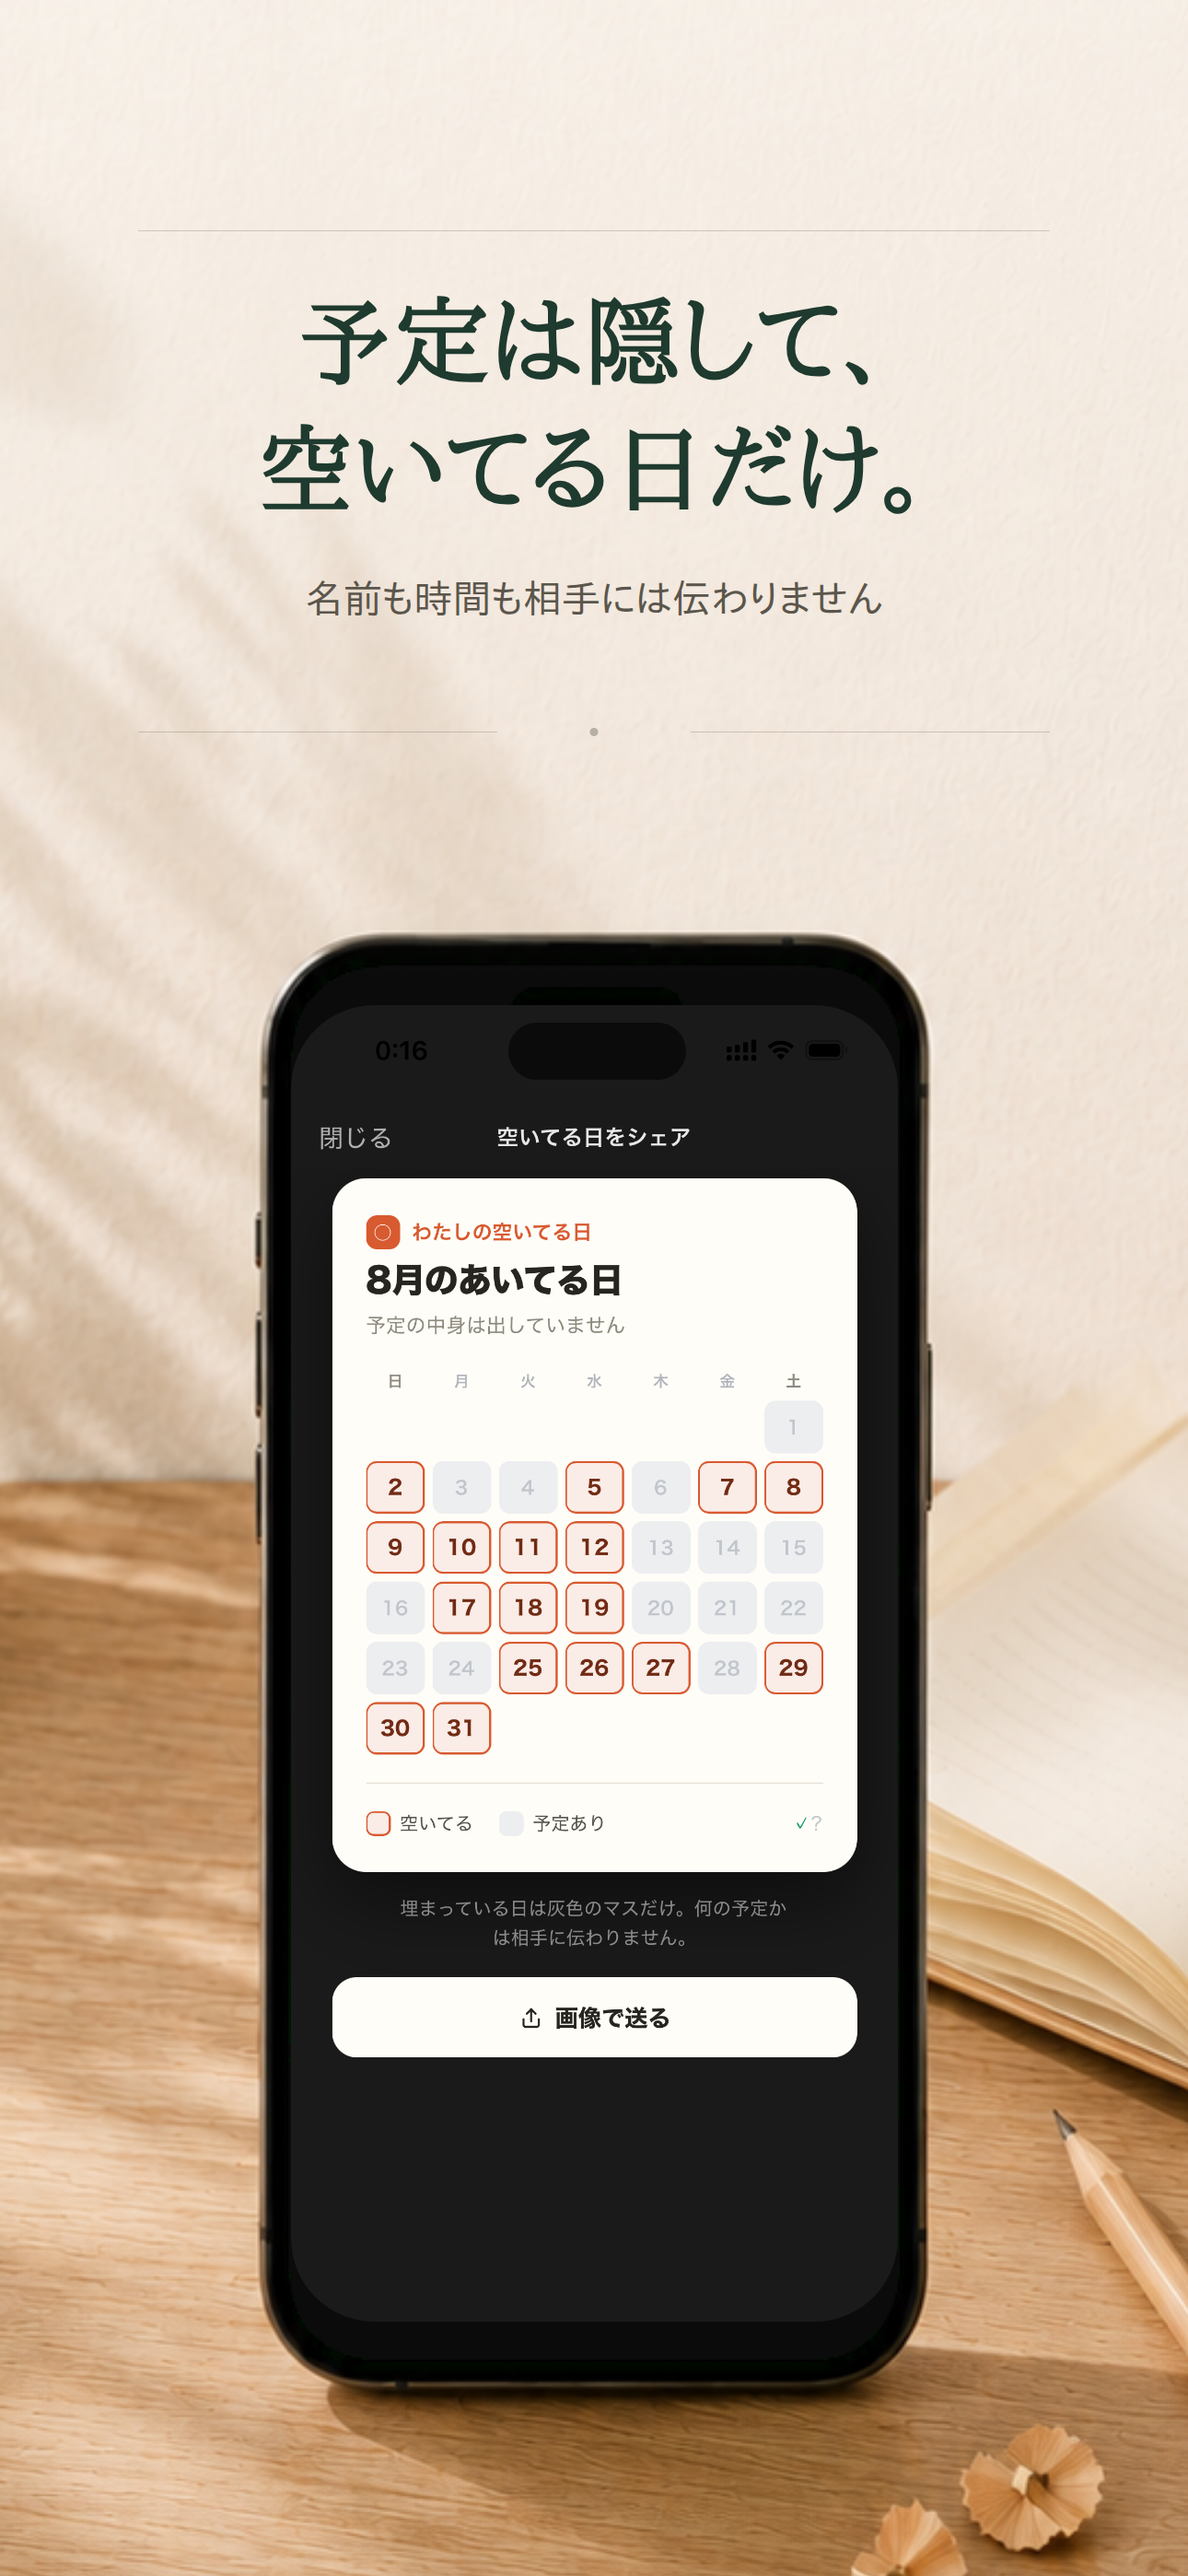
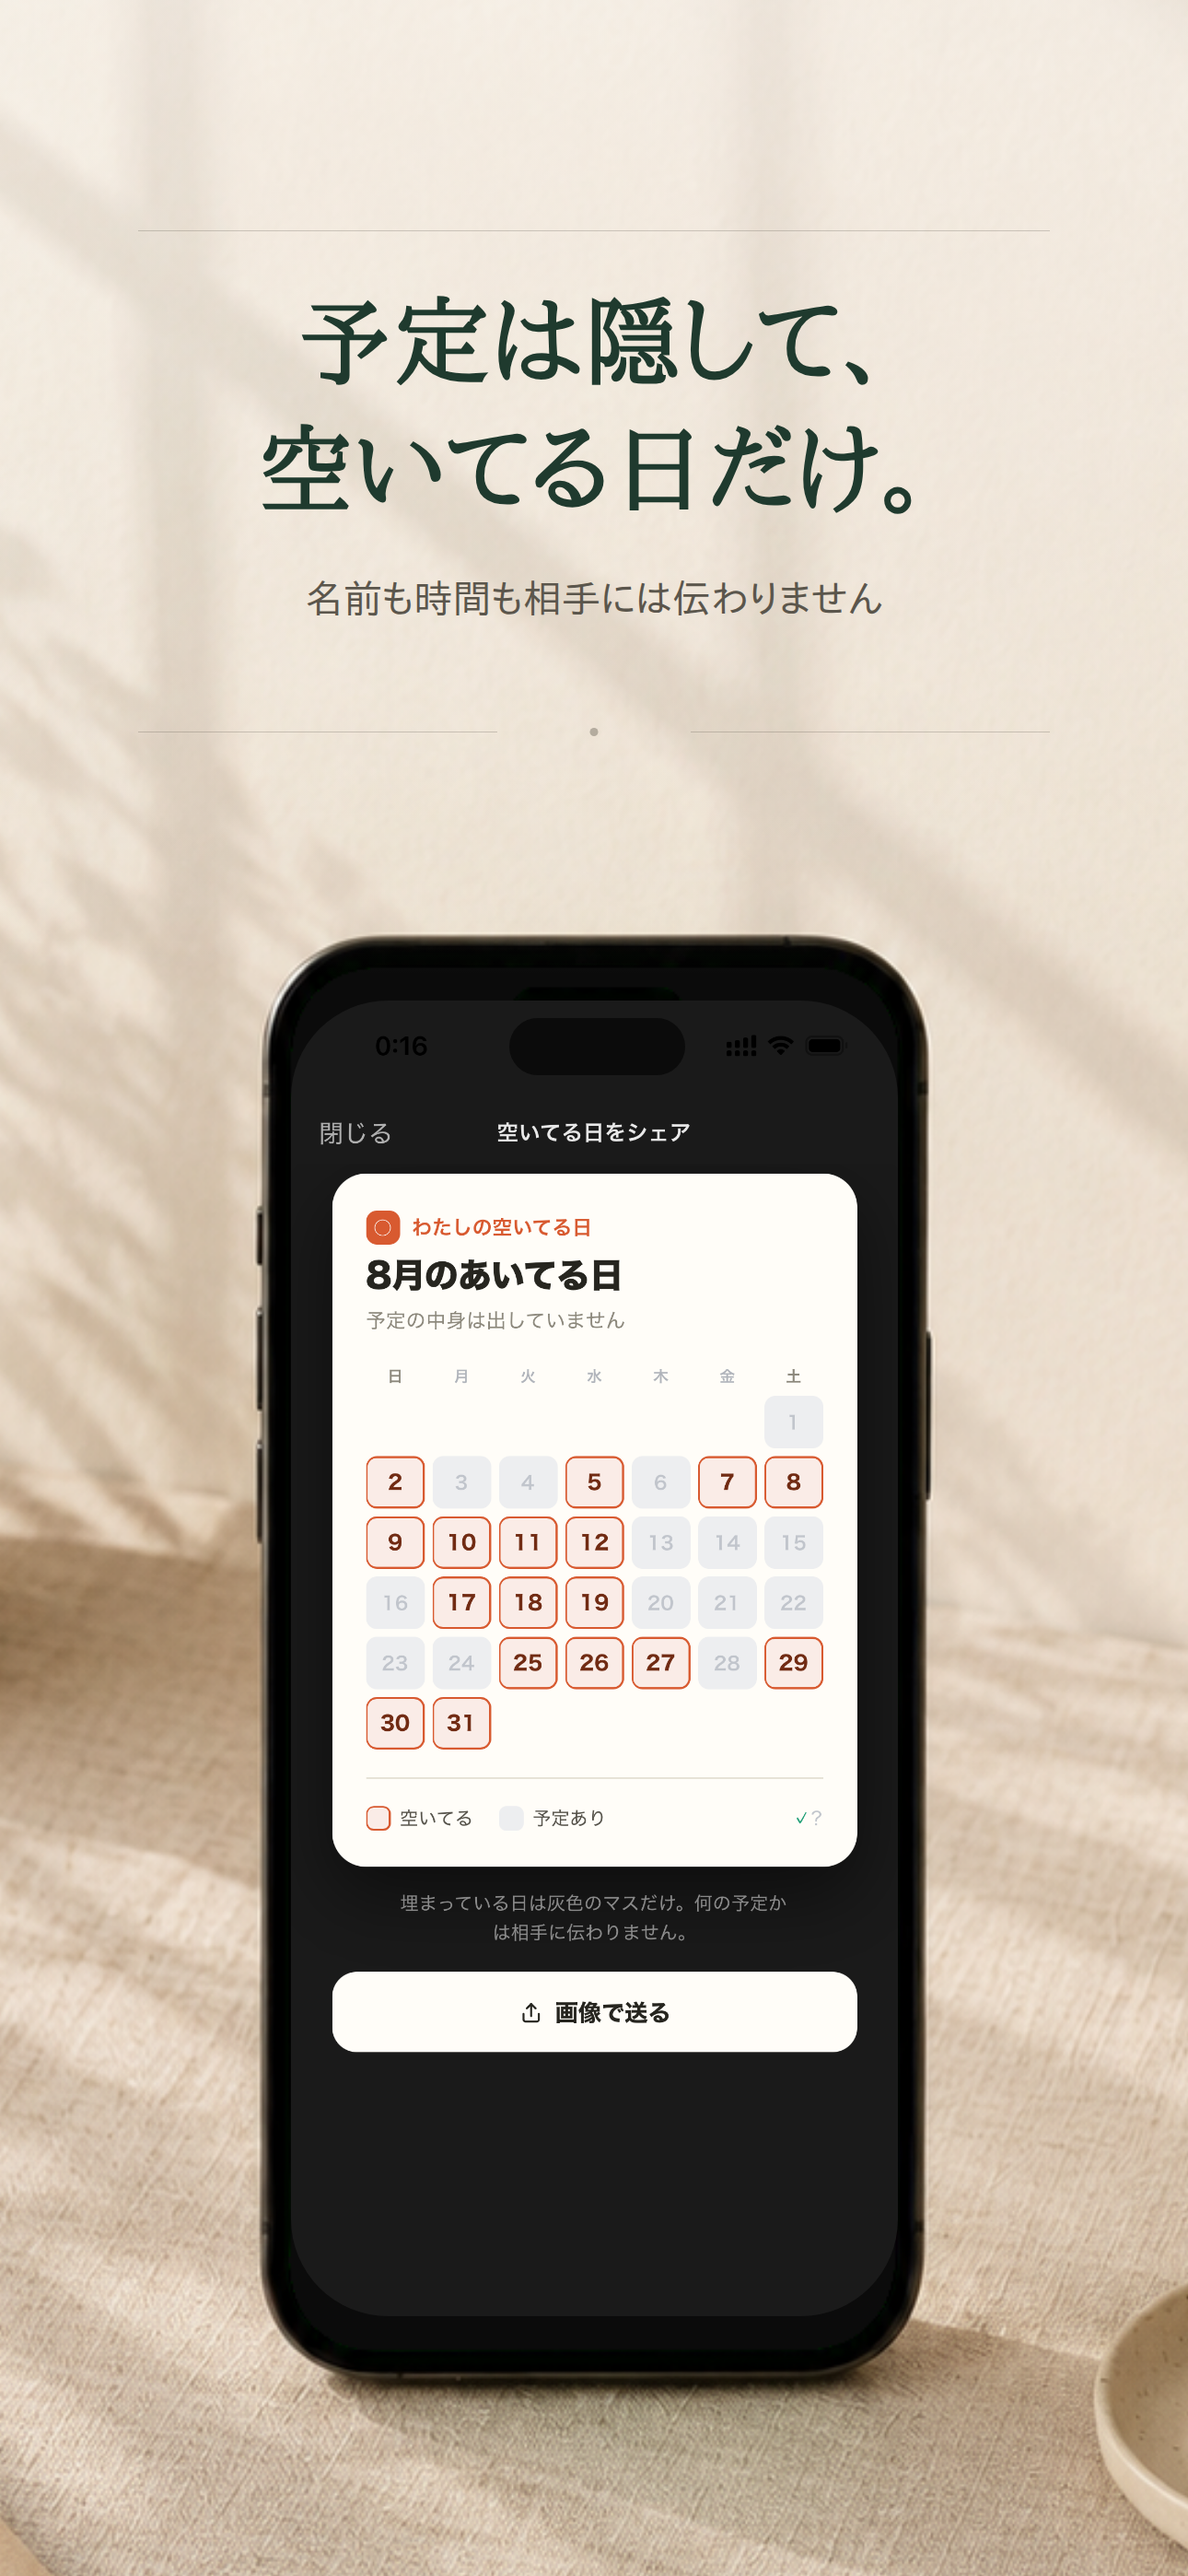
5枚目の背景をリネンにする
送ってもらったリネンの背景を bg3 として足し、5枚目に割り当てた。
この画面だけ中身が黒いので、明るい布地との対比がいちばん効く。
1・2枚目は万年筆、3・4枚目はノートと鉛筆のまま。

上げてもらったファイル名が bg3-raw.png.png になっていたので直した。

島の検出でつまずいた点を書き残す。画面中央の列を縦に走査して非緑の区間を
探すが、いちばん上に1pxの区間が出る（上端のアンチエイリアス）。
最初の区間を取ると高さ1pxの島になるので、**いちばん長い区間**を取る。

Claude-Session: https://claude.ai/code/session_01Lj7neatzxSibcNeHVWyy53

diff --git a/store-assets/store-cards-src/card.html b/store-assets/store-cards-src/card.html
@@ -38,8 +38,8 @@ const BG = {
         S:{l:430.4,t:921.9,w:464.0,h:1012.9}, I:{dx:162.2,dy:12.1,w:136.5,h:42.5}, r:57.6},
   bg2: {img:'bg2-clean.png', BW:1293.4, BH:2796, BX:-1.7,
         S:{l:439.5,t:935.5,w:418.5,h:959.8}, I:{dx:150.1,dy:12.1,w:122.8,h:39.4}, r:57.6},
-  bg3: {img:'bg3-clean.png', BW:1293.4, BH:2796, BX:-1.7,
-        S:{l:441.1,t:920.4,w:438.2,h:982.5}, I:{dx:157.7,dy:12.1,w:127.4,h:40.9}, r:60.7},
+  bg3: {img:'bg3-clean.png', BW:1290.5, BH:2796, BX:-0.2,
+        S:{l:437.5,t:945.1,w:416.5,h:948.2}, I:{dx:149.9,dy:12.1,w:121.2,h:39.4}, r:66.6},
 };
 const p=new URLSearchParams(location.search);
 const b=BG[p.get('bg')||'bg1'];
